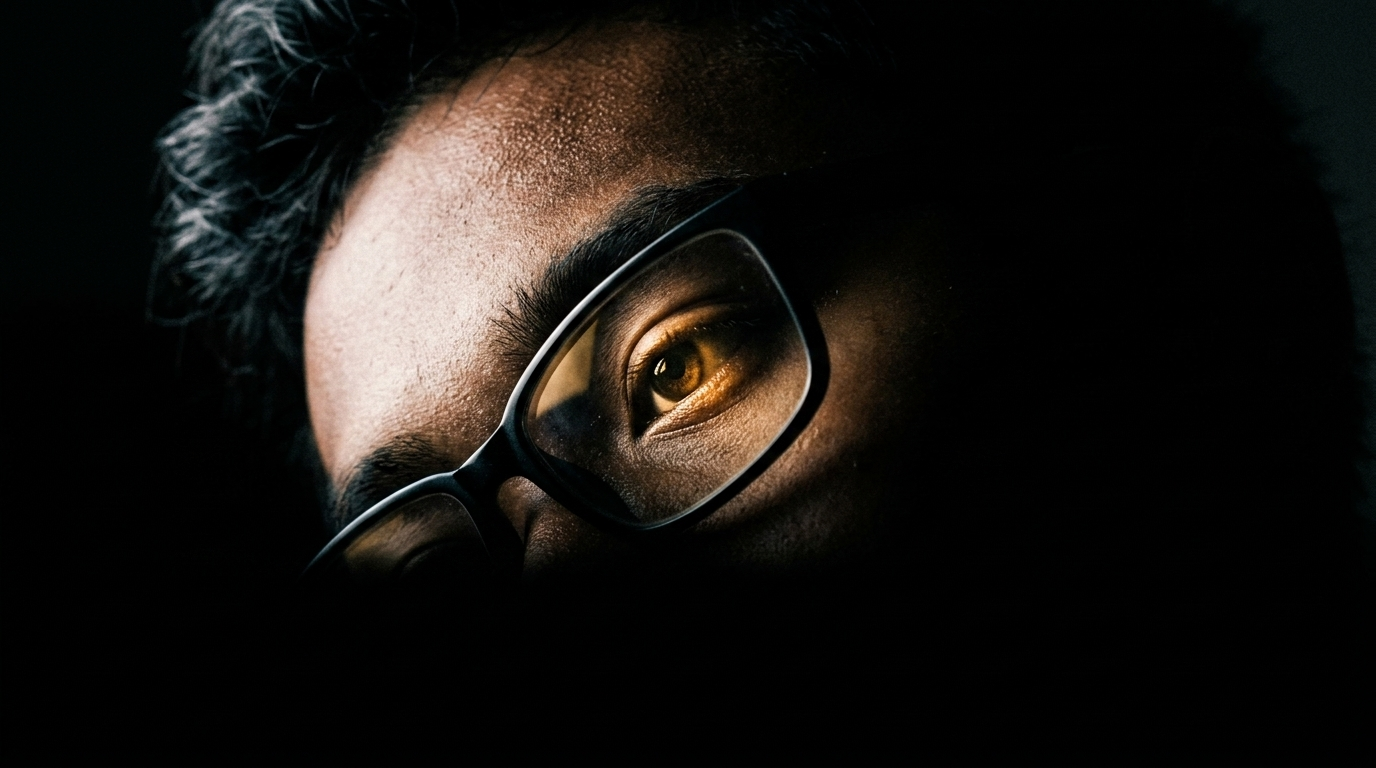
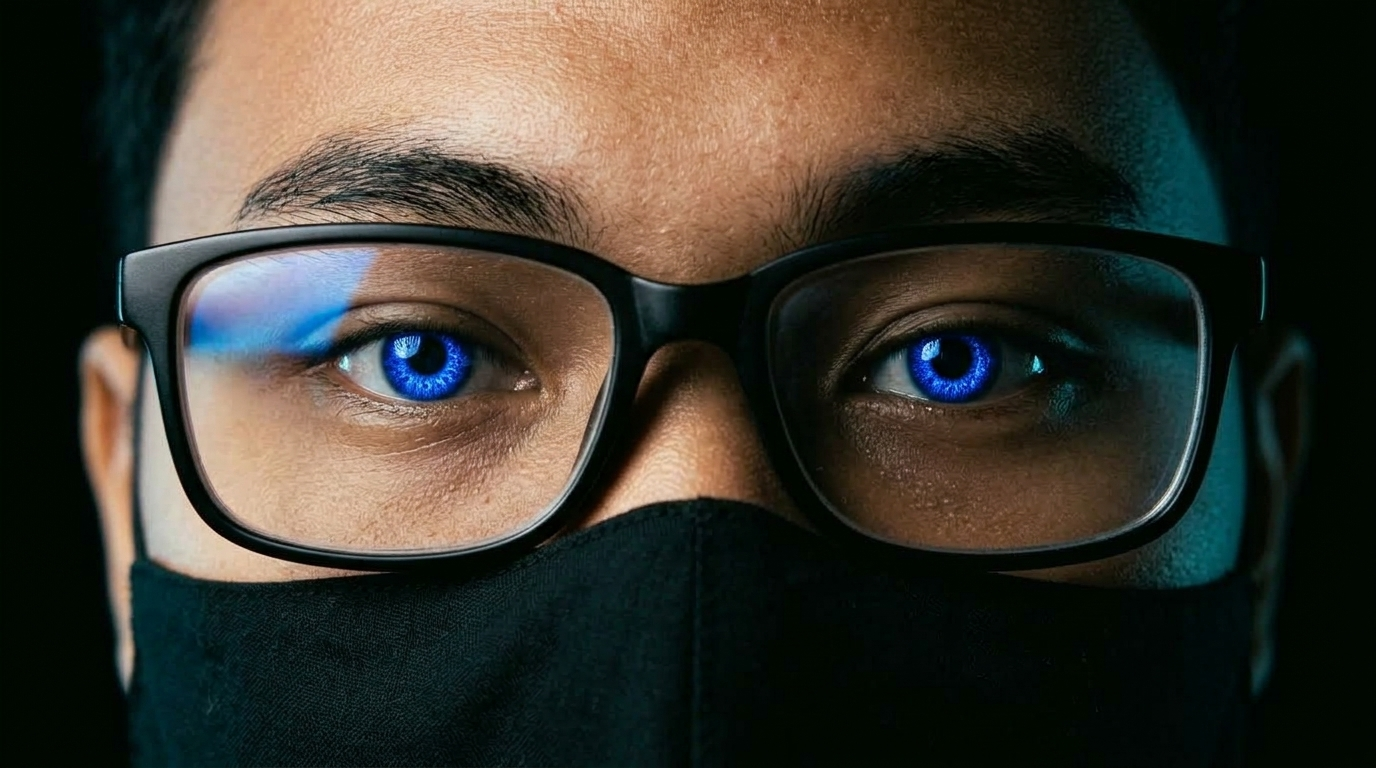
Update hero eye: blue eyes, mask, clear skin, and radial fade to eliminate hard edges

diff --git a/src/App.tsx b/src/App.tsx
@@ -218,11 +218,11 @@ export default function App() {
             id="Home"
             className="relative w-full h-screen min-h-[640px] overflow-hidden bg-black"
           >
-            <div className="absolute inset-0 flex items-center justify-center">
+            <div className="absolute inset-0 flex items-center justify-center pointer-events-none">
               <img
                 src={heroEye}
                 alt="Hero"
-                className="h-[90%] w-[90%] object-contain object-center"
+                className="h-[90%] w-[90%] object-contain object-center [mask-image:radial-gradient(ellipse_at_center,black_50%,transparent_90%)]"
               />
             </div>
 
